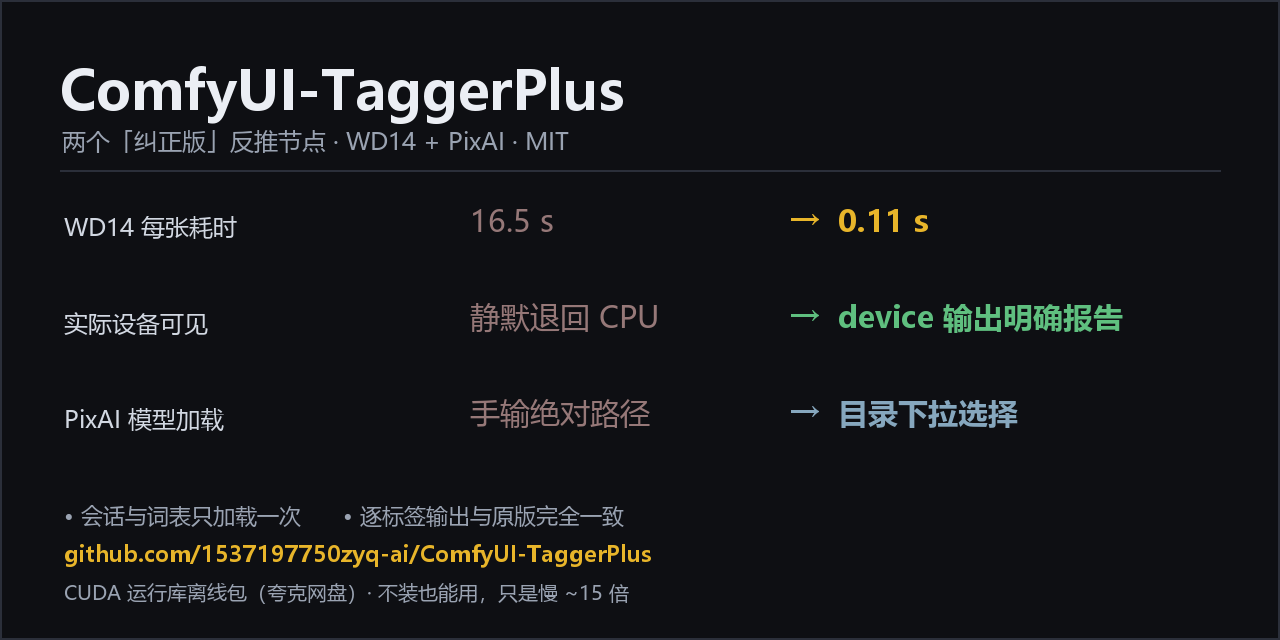
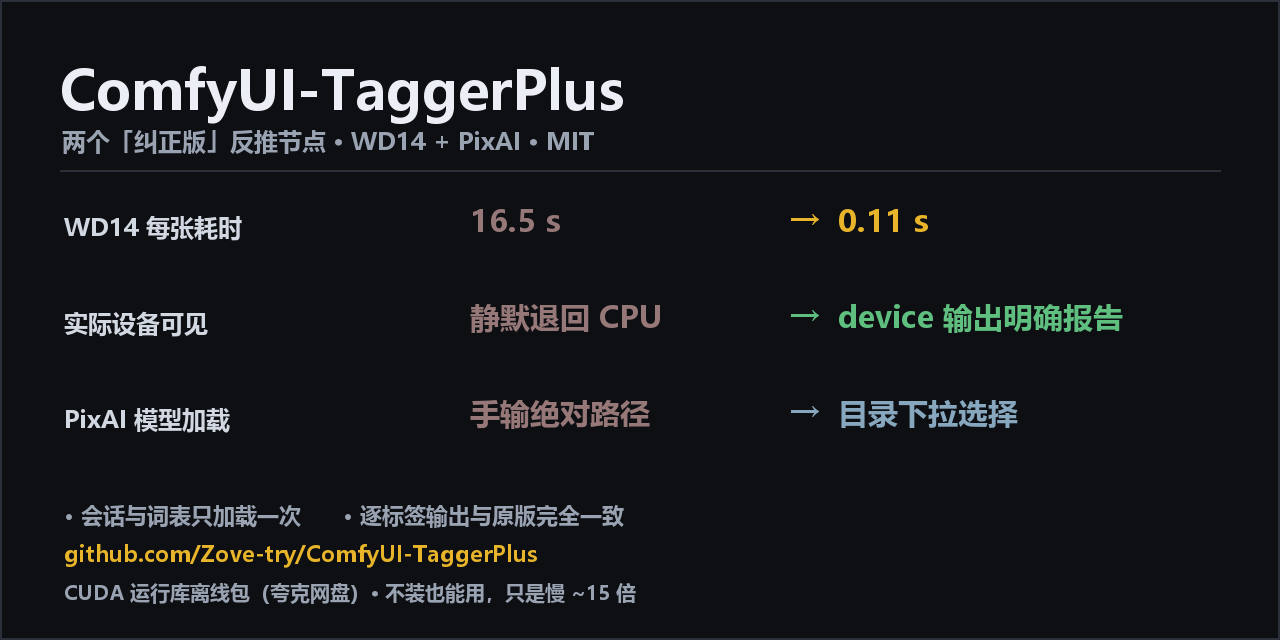
docs: update owner name and repo links

diff --git a/README.md b/README.md
@@ -22,7 +22,7 @@
 
 ```bash
 cd ComfyUI/custom_nodes
-git clone https://github.com/1537197750zyq-ai/ComfyUI-TaggerPlus
+git clone https://github.com/Zove-try/ComfyUI-TaggerPlus
 ```
 
 或用 ComfyUI-Manager →「Install via Git URL」填仓库地址。重启 ComfyUI，
